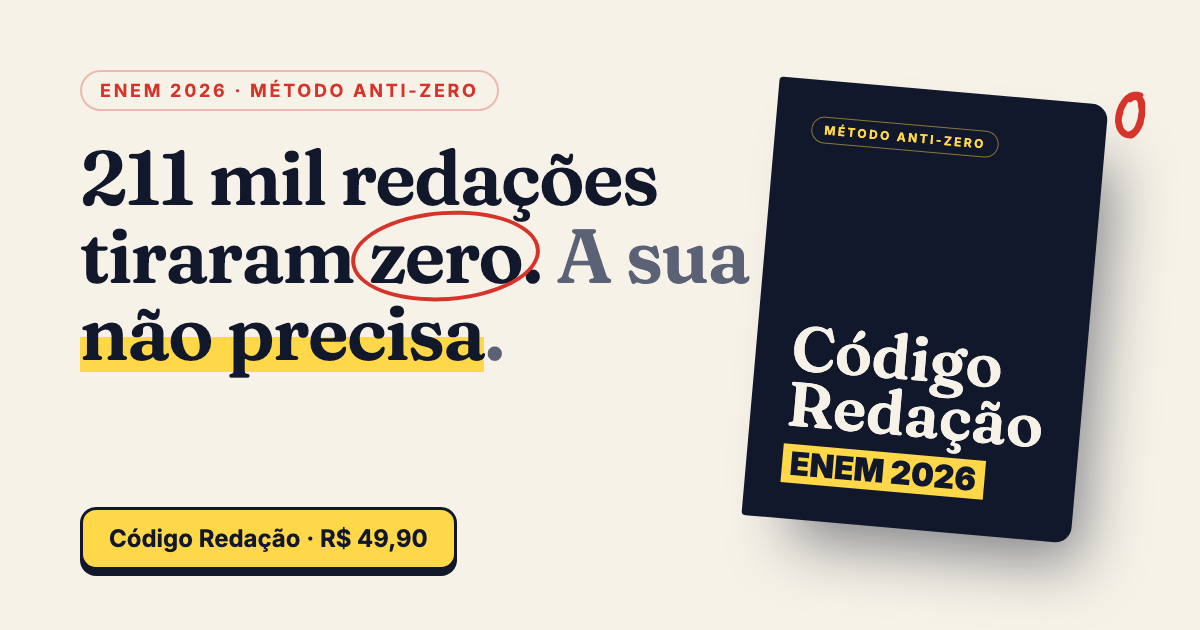
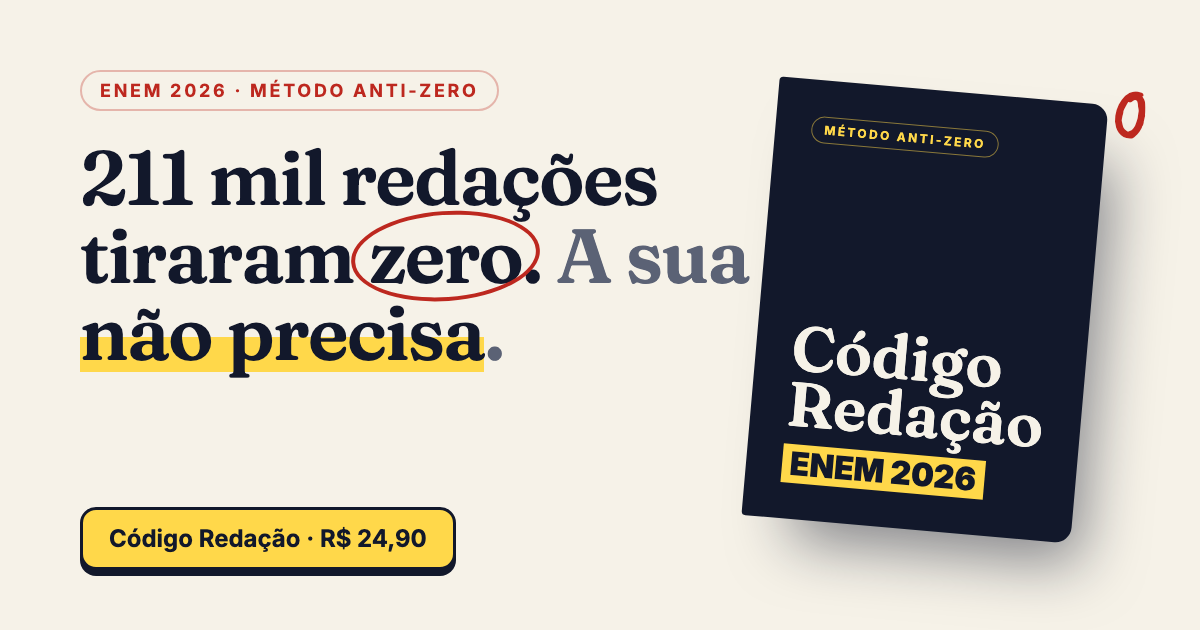
feat: preço atualizado para R$ 24,90
Valor em site.ts (botões, oferta, barra mobile, termos, JSON-LD)
e imagem de compartilhamento regenerada.

diff --git a/src/config/site.ts b/src/config/site.ts
@@ -10,7 +10,7 @@ export const site = {
   description:
     'Ebook direto ao ponto para evitar os erros que zeram a redação do ENEM e treinar do jeito que a banca corrige. Método de 4 parágrafos, fórmulas ECT e TARP e checklist de autocorreção.',
 
-  price: 49.9,
+  price: 24.9,
   /** Preço "âncora" opcional (ex.: 97). Deixe null para não exibir. */
   anchorPrice: null as number | null,
 
